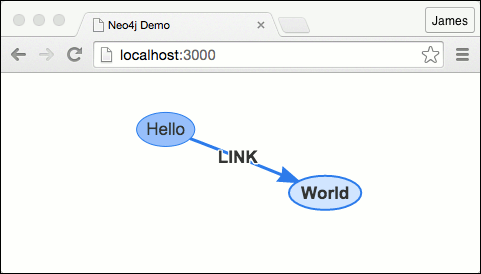
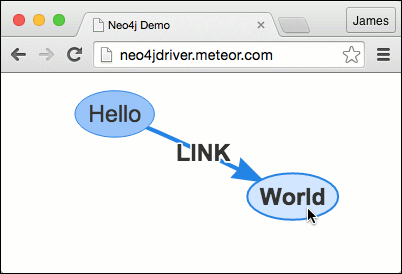
Add link to online demo

diff --git a/index.html b/index.html
@@ -607,7 +607,8 @@ Template.main.onRendered(function() {
       return visGraph</span>
     }
   })</pre>
-<p>One point to note is that there may be multiple references to the same node, but there is no need to include any duplicates in the DataSet. Depending on the query that is used, relationships may appear in multiple times too, but only one reference is needed.</p>
+<p>One point to note is that there may be multiple references to the same node, but there is no need to include any duplicates in the DataSet. Depending on the query that is used, relationships may appear in multiple times too, but only one reference is needed. The <code>nodeIds</code> and <code>edgeIds</code> arrays are used to track which nodes and edges have already been treated.</p>
+<p>In fact, the vis.DataSet object is designed to filter out any duplicates, but it is better to send the least amount of data from the server to the client.</p>
 <p>When you have read through the code and understand what it is doing, you can copy and paste into your <code>server.js</code> script, to replace the current <code>Meteor.methods</code> method. When you save, Meteor will restart and the browser will refresh. If all goes well, this is what you should see in your browser:</p>
 <figure>
 <img src="img/hello_world.png" alt="Hello World as a graph" />
@@ -619,8 +620,11 @@ Template.main.onRendered(function() {
 <section>
 <h2><a id="online" class="anchor" href="#online" aria-hidden="true"><span class="octicon octicon-link"></span><code>Getting your graph online</code></a></h2>
 <p>Right now, your graph is interactive, but it is not dynamic. You can't make changes to the graph in your browser, and if data in the database changes, your view will not update. You can discover how to deal with this in the next section.</p>
-<p>Before you do that, though, it's good to deploy your database to an online site, so that you can check that everything works from development to production.</p>
-
+<p>Before you do that, though, it's good to deploy your database to an online site, like <a href="http://neo4jdriver.meteor.com/">this</a>, so that you can check that everything works from development to production.</p>
+<h3>Setting up a hobby database with GrapheneDB</h3>
+<p></p>
+<h3>Deploying to Meteor.com</h3>
+<p></p>
 </section>
 
 <h1>API</h1>
